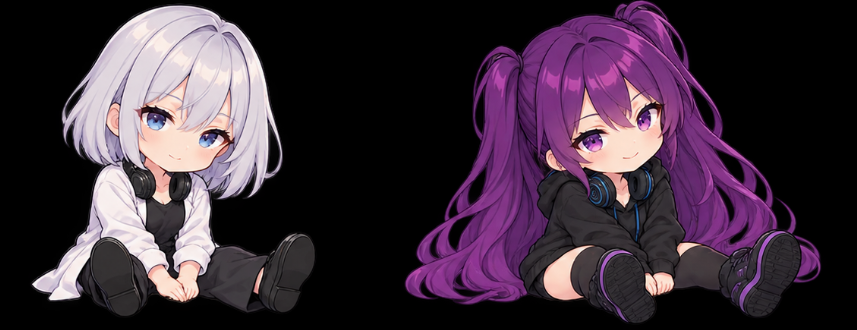
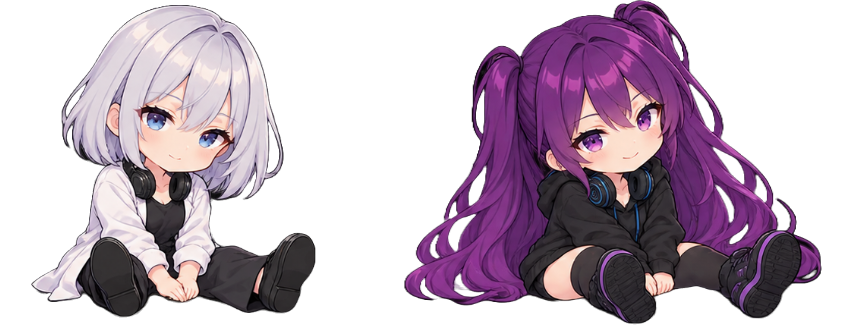
Finish v1.0.0 with compact panel controls, clear view selection and transparent mascots

diff --git a/githug/explanation_panel.py b/githug/explanation_panel.py
@@ -5,6 +5,8 @@ import tkinter as tk
 from tkinter import ttk
 from .explaining import explain, normalize_api_key
 from .inspection import file_input,history_input
+from .view_switch import ViewSwitch
+from .reading import write_explanation
 
 
 class ExplanationPanel:
@@ -12,8 +14,11 @@ class ExplanationPanel:
         self.app=app;self.frame=ttk.Frame(parent,padding=12,width=350,style='Card.TFrame');self.frame.pack_propagate(False);self.target=None;self.pending=queue.Queue();self.busy=False
         self.payload=None;self.prepared_target=None
         top=ttk.Frame(self.frame);top.pack(fill='x')
-        ttk.Label(top,text='選んだものを説明',style='Heading.TLabel').pack(side='left')
-        ttk.Button(top,text='閉じる',command=app.toggle_explanation).pack(side='right')
+        top.columnconfigure(0,weight=1)
+        ttk.Label(top,text='説明',style='Heading.TLabel').grid(row=0,column=0,sticky='w')
+        close_button=ttk.Button(top,text='✖',width=3,command=app.toggle_explanation,style='Icon.TButton')
+        close_button.grid(row=0,column=2,sticky='e')
+        self.tooltip(close_button,'説明パネルを閉じる')
         self.caption=tk.StringVar(value='履歴か左下のファイルを選択')
         ttk.Label(self.frame,textvariable=self.caption,wraplength=300).pack(fill='x',pady=8)
         self.mode=tk.StringVar(value='一つの履歴')
@@ -24,17 +29,35 @@ class ExplanationPanel:
         ttk.Checkbutton(self.frame,text='内容・差分の本文も含める',variable=self.detail).pack(anchor='w',pady=4)
         self.model=tk.StringVar(value=app.config.get('explanation_model',''))
         self.key=tk.StringVar()
-        ttk.Button(top,text='接続設定',command=self.settings_dialog).pack(side='right',padx=4)
+        settings_button=ttk.Button(top,text='⚙',width=3,command=self.settings_dialog,style='Icon.TButton')
+        settings_button.grid(row=0,column=1,sticky='e',padx=(4,4))
+        self.tooltip(settings_button,'Geminiの接続設定')
+        self.header_buttons=(settings_button,close_button)
         self.prepare=ttk.Button(self.frame,text='送信内容を確認',command=self.prepare_input);self.prepare.pack(fill='x',pady=(8,4))
         self.send=ttk.Button(self.frame,text='Geminiへ送って説明する',command=self.request,style='Primary.TButton',state='disabled');self.send.pack(fill='x')
         self.state=tk.StringVar(value='選択だけでは送信しません。説明はAIの推測を含みます。')
         ttk.Label(self.frame,textvariable=self.state,wraplength=300,style='Muted.TLabel').pack(fill='x',pady=8)
-        tabs=ttk.Notebook(self.frame);tabs.pack(fill='both',expand=True)
+        tabs=ViewSwitch(self.frame);tabs.pack(fill='both',expand=True)
         self.output=self.text_area(tabs,'説明');self.preview=self.text_area(tabs,'送信内容')
         self.tabs=tabs
         ttk.Button(self.frame,text='説明をコピー',command=self.copy).pack(anchor='e',pady=(4,0))
         for variable in (self.mode,self.base,self.detail):variable.trace_add('write',self.invalidate)
         self.frame.after(80,self.poll)
+
+    @staticmethod
+    def tooltip(widget,label):
+        state={'tip':None,'after':None}
+        def hide(event=None):
+            if state['after'] is not None:widget.after_cancel(state['after']);state['after']=None
+            if state['tip'] is not None:state['tip'].destroy();state['tip']=None
+        def show():
+            state['after']=None
+            if not widget.winfo_exists():return
+            tip=tk.Toplevel(widget);tip.overrideredirect(True)
+            tip.geometry('+'+str(widget.winfo_rootx())+'+'+str(widget.winfo_rooty()+widget.winfo_height()+4))
+            ttk.Label(tip,text=label,padding=6).pack();state['tip']=tip
+        widget.bind('<Enter>',lambda event:state.update(after=widget.after(500,show)))
+        widget.bind('<Leave>',hide);widget.bind('<ButtonPress>',hide,add='+')
 
     def settings_dialog(self):
         existing=getattr(self,'settings_window',None)
@@ -65,7 +88,7 @@ class ExplanationPanel:
         return popup
 
     def text_area(self,tabs,title):
-        frame=ttk.Frame(tabs);tabs.add(frame,text=title)
+        frame=ttk.Frame(tabs.body);tabs.add(frame,text=title)
         bar=ttk.Scrollbar(frame);bar.pack(side='right',fill='y')
         text=tk.Text(frame,width=28,height=6,wrap='word',state='disabled',yscrollcommand=bar.set,font=('Yu Gothic UI',11),padx=8,pady=8,spacing3=3)
         bar.configure(command=text.yview);text.pack(fill='both',expand=True)
@@ -77,10 +100,10 @@ class ExplanationPanel:
 
     def choose(self,target):
         self.target=target
-        self.caption.set(target['label'] if target else '履歴か左下のファイルを選択')
+        self.caption.set((target['label'][:100]+('…' if len(target['label'])>100 else '')) if target else '履歴か左下のファイルを選択')
+        self.payload=None;self.send.configure(state='disabled')
         if not self.busy:
-            self.payload=None;self.send.configure(state='disabled')
-            self.write(self.preview,'');self.state.set('送信内容を確認してから依頼します。前の説明の対象は説明欄の先頭に表示します。')
+            self.write(self.preview,'');self.state.set('送信前に内容を確認してください。')
 
     def invalidate(self,*args):
         self.payload=None;self.send.configure(state='disabled')
@@ -114,7 +137,7 @@ class ExplanationPanel:
         payload=self.payload;key=self.key.get();model=self.model.get().strip()
         self.answer_label=self.prepared_target['label']
         self.app.config['explanation_model']=model;self.app.save()
-        self.state.set('Geminiに説明を依頼中… 対象: '+self.answer_label)
+        self.state.set('Geminiに説明を依頼中…')
         self.launch('answer',lambda:explain(key,model,payload))
 
     def poll(self):
@@ -135,7 +158,7 @@ class ExplanationPanel:
                 self.state.set(str(len(value))+'文字をGoogle Geminiへ送信します。内容を確認してください。')
                 self.send.configure(state='normal')
             else:
-                self.write(self.output,'対象: '+self.answer_label+'\n\n'+value);self.tabs.select(0)
+                write_explanation(self.output,'対象: '+self.answer_label+'\n\n'+value);self.tabs.select(0)
                 self.payload=None;self.state.set('説明を受信しました。再依頼には送信内容を確認してください。')
         self.frame.after(80,self.poll)
 

diff --git a/githug/runtime.py b/githug/runtime.py
@@ -64,6 +64,10 @@ def launch(app_class, argv=None):
                 report['settings_dialog_opened']=settings.winfo_exists()
                 settings.destroy()
                 app.inspect_file(str(directory/'copy'/'file.txt'))
+                from .reading import write_explanation
+                write_explanation(app.explanation.output,'### 確認用の見出し\n* **重要**な説明と `file.txt`')
+                app.explanation.tabs.select(0)
+                app.explanation.tabs.select(1)
                 app.explanation.prepare_input()
                 app.history.graph_view.manual_width=180
                 app.history.graph_view.set_page(app.history_model,[r['sha'] for r in records],True)
@@ -91,8 +95,12 @@ def launch(app_class, argv=None):
                                         'GITHUG_CAPTURE_W':str(root.winfo_width()),'GITHUG_CAPTURE_H':str(root.winfo_height())})
                 report['sidebar_width']=app.projects.master.winfo_width()
                 report['panel_width']=app.explanation.frame.winfo_width()
+                buttons=app.explanation.header_buttons
+                report['header_buttons_visible']=all(b.winfo_width()>15 and b.winfo_x()>=0 and b.winfo_x()+b.winfo_width()<=b.master.winfo_width() for b in buttons)
+                view_buttons=app.explanation.tabs.buttons
+                report['view_buttons_equal']=abs(view_buttons[0].winfo_width()-view_buttons[1].winfo_width())<=2
                 report['callback_errors']=callback_errors
-                if callback_errors or report['sidebar_width']<180 or report['panel_width']<250 or not report['folder_tree_loaded'] or not report['explanation_prepared']:
+                if not report['header_buttons_visible'] or not report['view_buttons_equal'] or callback_errors or report['sidebar_width']<180 or report['panel_width']<250 or not report['folder_tree_loaded'] or not report['explanation_prepared']:
                     raise RuntimeError('追加パネルの確認に失敗しました: '+str(report))
             report['history_size']=app.history.winfo_geometry()
             Path(args.smoke_test).write_text(json.dumps(report,ensure_ascii=False,indent=2),encoding='utf-8')

diff --git a/githug/reading.py b/githug/reading.py
@@ -1,0 +1,35 @@
+"""Small read-only formatter; never interprets HTML or executes links/code."""
+import re
+
+
+def formatted_lines(text):
+    fenced=False
+    for line in text.splitlines():
+        if line.lstrip().startswith('```'):
+            fenced=not fenced
+            continue
+        if fenced:
+            yield [('code',line)]
+            continue
+        heading=re.match(r'^\s{0,3}#{1,6}\s+(.*)',line)
+        if heading:
+            yield [('heading',heading.group(1).rstrip('#').rstrip())]
+            continue
+        line=re.sub(r'^(\s*)[-*+]\s+',r'\1• ',line)
+        pieces=[]
+        for part in re.split(r'(\*\*[^*\n]+\*\*|`[^`\n]+`)',line):
+            if part.startswith('**') and part.endswith('**') and len(part)>4:pieces.append(('bold',part[2:-2]))
+            elif part.startswith('`') and part.endswith('`') and len(part)>2:pieces.append(('code',part[1:-1]))
+            elif part:pieces.append(('',part))
+        yield pieces or [('',line)]
+
+
+def write_explanation(widget,value):
+    widget.configure(state='normal');widget.delete('1.0','end')
+    widget.tag_configure('heading',font=('Yu Gothic UI',12,'bold'),spacing1=10,spacing3=5)
+    widget.tag_configure('bold',font=('Yu Gothic UI',11,'bold'))
+    widget.tag_configure('code',font=('Consolas',11))
+    for pieces in formatted_lines(value):
+        for tag,text in pieces:widget.insert('end',text,(tag,) if tag else ())
+        widget.insert('end','\n')
+    widget.configure(state='disabled')

diff --git a/githug/view_switch.py b/githug/view_switch.py
@@ -1,0 +1,23 @@
+"""Equal-size view selectors without notebook selected-tab expansion."""
+from tkinter import ttk
+
+class ViewSwitch(ttk.Frame):
+    def __init__(self,parent):
+        super().__init__(parent)
+        self.bar=ttk.Frame(self);self.bar.pack(fill='x',pady=(0,6))
+        self.body=ttk.Frame(self);self.body.pack(fill='both',expand=True)
+        self.body.columnconfigure(0,weight=1);self.body.rowconfigure(0,weight=1)
+        self.pages=[];self.buttons=[];self.labels=[];self.current=0
+
+    def add(self,frame,text):
+        index=len(self.pages);self.pages.append(frame);self.labels.append(text)
+        frame.grid(row=0,column=0,sticky='nsew')
+        button=ttk.Button(self.bar,text=text,command=lambda:self.select(index),style='View.TButton')
+        button.grid(row=0,column=index,sticky='ew',padx=(0,3) if not index else (3,0))
+        self.bar.columnconfigure(index,weight=1,uniform='views')
+        self.buttons.append(button);self.select(self.current)
+
+    def select(self,index):
+        self.current=index;self.pages[index].tkraise()
+        for i,button in enumerate(self.buttons):
+            button.configure(text=('● ' if i==index else '')+self.labels[i],style='SelectedView.TButton' if i==index else 'View.TButton')

diff --git a/githug/theme.py b/githug/theme.py
@@ -94,6 +94,11 @@ def apply_dark_theme(window):
                         arrowcolor=TEXT, bordercolor=BG)
         style.map(direction + '.TScrollbar', background=[('active', '#61758b')])
         style.configure(direction + '.TProgressbar', background='#5592c5', troughcolor=FIELD)
+    style.configure('Icon.TButton',padding=(4,5),font=('Segoe UI Symbol',12))
+    style.configure('View.TButton',background='#353535',foreground='#bdbdbd',padding=(8,9),font=('Yu Gothic UI',11),anchor='center')
+    style.configure('SelectedView.TButton',background='#245866',foreground='#ffffff',padding=(8,9),font=('Yu Gothic UI',11,'bold'),anchor='center')
+    style.map('View.TButton',background=[('active','#454545')])
+    style.map('SelectedView.TButton',background=[('active','#2b6876'),('pressed','#245866')],foreground=[('!disabled','#ffffff')])
     style.configure('TNotebook',background=PANEL,borderwidth=0)
     style.configure('TNotebook.Tab',background='#383838',foreground='#eeeeee',padding=(14,8))
     style.map('TNotebook.Tab',background=[('selected','#245866'),('active','#484848')],

diff --git a/githug/__main__.py b/githug/__main__.py
@@ -64,7 +64,7 @@ class App:
         ttk.Label(appbar, text='v' + __version__, style='Badge.TLabel').pack(side='left', padx=16)
         # Use the supplied illustration unchanged; native Tk scaling needs no imaging dependency.
         self.mascot_image = tk.PhotoImage(master=window, file=str(Path(__file__).parent/'assets'/'living_agent.png')).subsample(4,4)
-        self.mascot = tk.Label(appbar, image=self.mascot_image, bg='#000000', borderwidth=0)
+        self.mascot = tk.Label(appbar, image=self.mascot_image, bg='#202020', borderwidth=0)
         self.mascot.pack(side='right', padx=(16,0))
         self.operation_state = tk.StringVar(value='待機中')
         ttk.Button(appbar, text='使い方・環境', command=self.guide, style='Quiet.TButton').pack(side='right')

diff --git a/tests/test_reading.py b/tests/test_reading.py
@@ -1,0 +1,14 @@
+import unittest
+from githug.reading import formatted_lines
+
+class ReadingTests(unittest.TestCase):
+    def test_headings_lists_and_emphasis(self):
+        rows=list(formatted_lines('### 見出し\n* **重要**な説明と `code.py`'))
+        self.assertEqual(rows[0],[('heading','見出し')])
+        self.assertEqual(''.join(t for _,t in rows[1]),'• 重要な説明と code.py')
+        self.assertIn(('bold','重要'),rows[1])
+
+    def test_code_remains_literal_and_html_is_never_interpreted(self):
+        rows=list(formatted_lines('```python\n# literal **x**\n```\n<script>x</script>'))
+        self.assertEqual(rows[0],[('code','# literal **x**')])
+        self.assertEqual(rows[1],[('','<script>x</script>')])

diff --git a/githug/__init__.py b/githug/__init__.py
@@ -1,1 +1,1 @@
-__version__ = '0.7.1'
+__version__ = '1.0.0'
